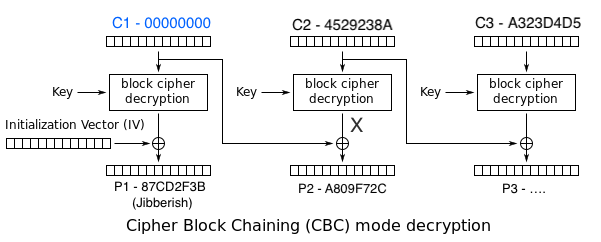
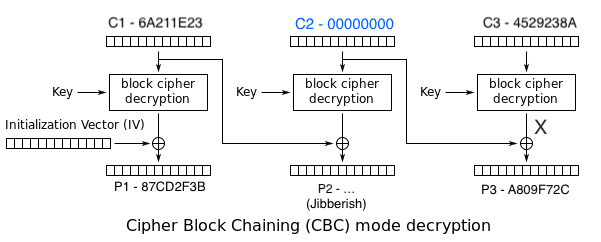
initial attack demonstration

diff --git a/backend/src/documentation/padding-oracle.md b/backend/src/documentation/padding-oracle.md
@@ -70,7 +70,7 @@ The most relevant point is how each block decryption ends.
 
 Imagine you have made a random request to a web application you use with the following **encrypted cookie value** and you want to decrypt it to know its content:
 
-> 6A211E234529238AA323D4D562B35056
+> 6A211E23A323D4D54529238A
 
 Assume the application is encrypting this value in CBC mode and PKCS#7 standard. The application receives this value, decrypts it, and sends the response based on it. The perfect scenario for a padding oracle attack! 
 
@@ -92,7 +92,7 @@ Look for the example below, where the ciphertext is divided through the differen
 
 As you can see the second cipher block decryption output is directly XORed with the first cipher block which the attacker has control. So, let's try to decrypt the second cipher block.
 
-You can pickup a random C1 and substitutes it with the original ciphertext first block (**C1** || C2 || C3) and send itto the oracle. The **X** points to the output of **D(K, C2)**, the decrypted value of C2 which the value we are trying to figure out. 
+You can pickup a random C2 and substitutes it with the original ciphertext second block (C1 || **C2** || C3) and send itto the oracle. The **X** points to the output of **D(K, C3)**, the decrypted value of C2 which the value we are trying to figure out. 
 
 **C1, C2, C3** are blocks of the ciphertext.
 
@@ -102,15 +102,15 @@ An example for the ciphertext payload is shown in the image below.
 
 For explanation purposes each block is 4 byte size.
 
-> The payload: **00000000**4529238AA323D4D562B35056
+> The payload: 6A211E23**00000000**4529238A
 
 ![Padding Oracle Attack Payload](/documentation/img/payload_padding_oracle.png "Padding Oracle Attack Payload")
 
-The value of P1 is irrelevant because our goal is to decrypt C2 so, we don´t care about the output of P1. P3 has not changed its output since we had only changed the first cipher block. Let's focus into decrypt the C2 block.
+The value of P1 and P2 is irrelevant because our goal is to decrypt C3 so, we don´t care about their output. P1 has not changed its output since we had only changed the first cipher block. Let's focus into decrypt the C3 block.
 
-With C1 = 00000000, the cipher decrypted to the following plaintext value.
+With C2 = 00000000, the cipher decrypted to the following plaintext value.
 
-C1 block
+C2 block
 
 > 00 | 00 | 00 | 00
 
@@ -118,12 +118,12 @@ Decrypted Value
 
 > A8 | 09 | F7 | **2C** 
 
-Notice that that the last  byte of C1 decrypts to a plaintext with invalid padding, **2C**.
+Notice that that the last  byte of C2 decrypts to a plaintext with invalid padding, **2C**.
 
 
 Let's try another value by incrementing the last byte.
 
-C1 block
+C2 block
 
 > 00 | 00 | 00 | **01**
 
@@ -132,13 +132,13 @@ Decrypted value
 > A8 | 09 | F7 | **2D** 
 
 
-The output is another padding but with a different decrypted value **2D** since we change the last byte of C1.
+The output is another padding but with a different decrypted value **2D** since we change the last byte of C2.
 
 If we continue to increment the last byte of C1 (until FF) we will find for sure a value that matches a valid padding sequence. When this value is hit, it will produce a successful response. This value is unique, so, the response will be different than the other 255 values.
 
 Pay attention to the following case.
 
-C1 block
+C2 block
 
 > 00 | 00 | 00 | **2D**
 
@@ -146,21 +146,21 @@ Decrypted value
 
 > A8 | 09 | F7 | **01** 
 
-The last byte of C1 with the value of **2D** decrypted to a valid padding because the last byte of the decrypted value is **01**. According to the PKCS#7 standard, this is valid padding, so, we found the value we want!
+The last byte of C2 with the value of **2D** decrypted to a valid padding because the last byte of the decrypted value is **01**. According to the PKCS#7 standard, this is valid padding, so, we found the value we want!
 
-> But how can we use this information to decrypt the C2 block?
+> But how can we use this information to decrypt the C3 block?
 
-Now is the easy part. We know the C1 last byte outputs valid padding (**2D**) and we know the plaintext output which is **01**. Now we can infer the value of X, the output of D(E,C2). If you have noticed, we can do that because the X value XORed with C1 outputs the plaintext. At this point, you may know XOR is a commutative operation. 
+Now is the easy part. We know the C1 last byte outputs valid padding (**2D**) and we know the plaintext output which is **01**. Now we can infer the value of X, the output of D(E,C3). If you have noticed, we can do that because the X value XORed with C2 outputs the plaintext. At this point, you may know XOR is a commutative operation. 
 
 If,
 
-> Plaintext = C1 XOR X
+> Plaintext = C2 XOR X
 
 Then,
 
-> C1 XOR Plaintext = X
+> C2 XOR Plaintext = X
 
-And that's how we get the value of X (D(K,C2)).
+And that's how we get the value of X (D(K,C3)).
 
 In our example,
 
@@ -174,17 +174,17 @@ Finally,
 
 > X = 0x2C
 
-0x01 is plaintext[15] and 0x2D is C1[15].
+0x01 is plaintext[15] and 0x2D is C2[15].
 
 We know the value of X (2C) and we are able to deduce the final value of the plaintext last byte. Simply XOR X with the previous original ciphertext block which is **6A211E23**. Confused? Compare these steps with the diagram of the CBC decryption shown above.
 
-At this time, the last byte of C2 is known; to find the rest of it, we can work backward through the entire block until every byte of X function is cracked, thus letting us decrypt the C2 plaintext one byte at a time. For the other blocks, it is just applying the same method to crack the full message.
+At this time, the last byte of C3 is known; to find the rest of it, we can work backward through the entire block until every byte of X function is cracked, thus letting us decrypt the C3 plaintext one byte at a time. For the other blocks, it is just applying the same method to crack the full message.
 
 ## Put the attack in practice
 
-There are a bunch of available scripts over the internet to automate this attack. We will using [this](https://github.com/KishanBagaria/padding-oracle-attacker)  to perform the attack. 
+There are a bunch of available scripts over the internet to automate this attack. We will using [this](https://github.com/KishanBagaria/padding-oracle-attacker) tool to get the flag. 
 
-According to the toll documentation, we need the **target URL**, **ciphertext encoding**, **block size** and the **HTTP code error**.
+According to the tool documentation, we need the **target URL**, **ciphertext encoding**, **block size** and the **HTTP code error**.
 
 Example:
 
